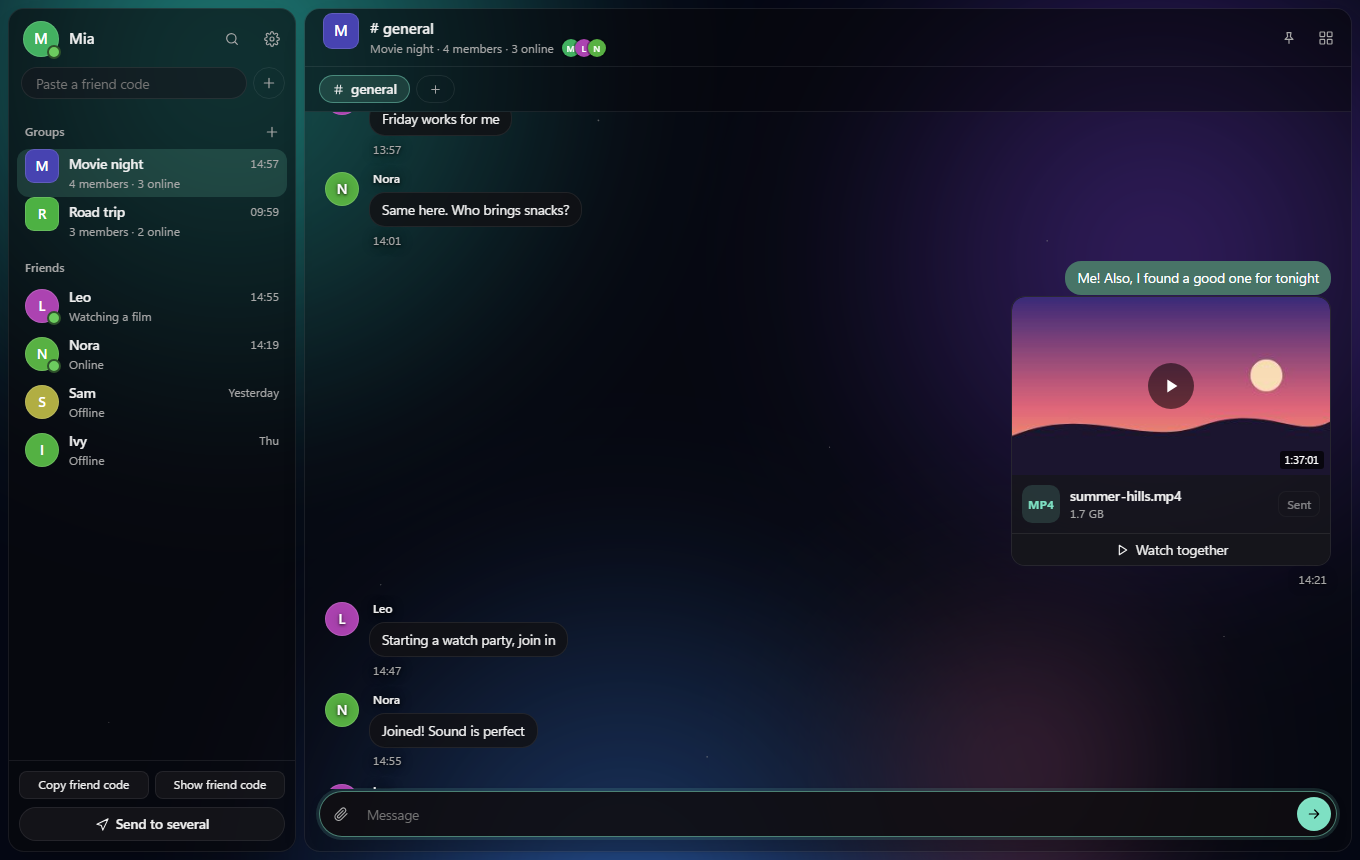
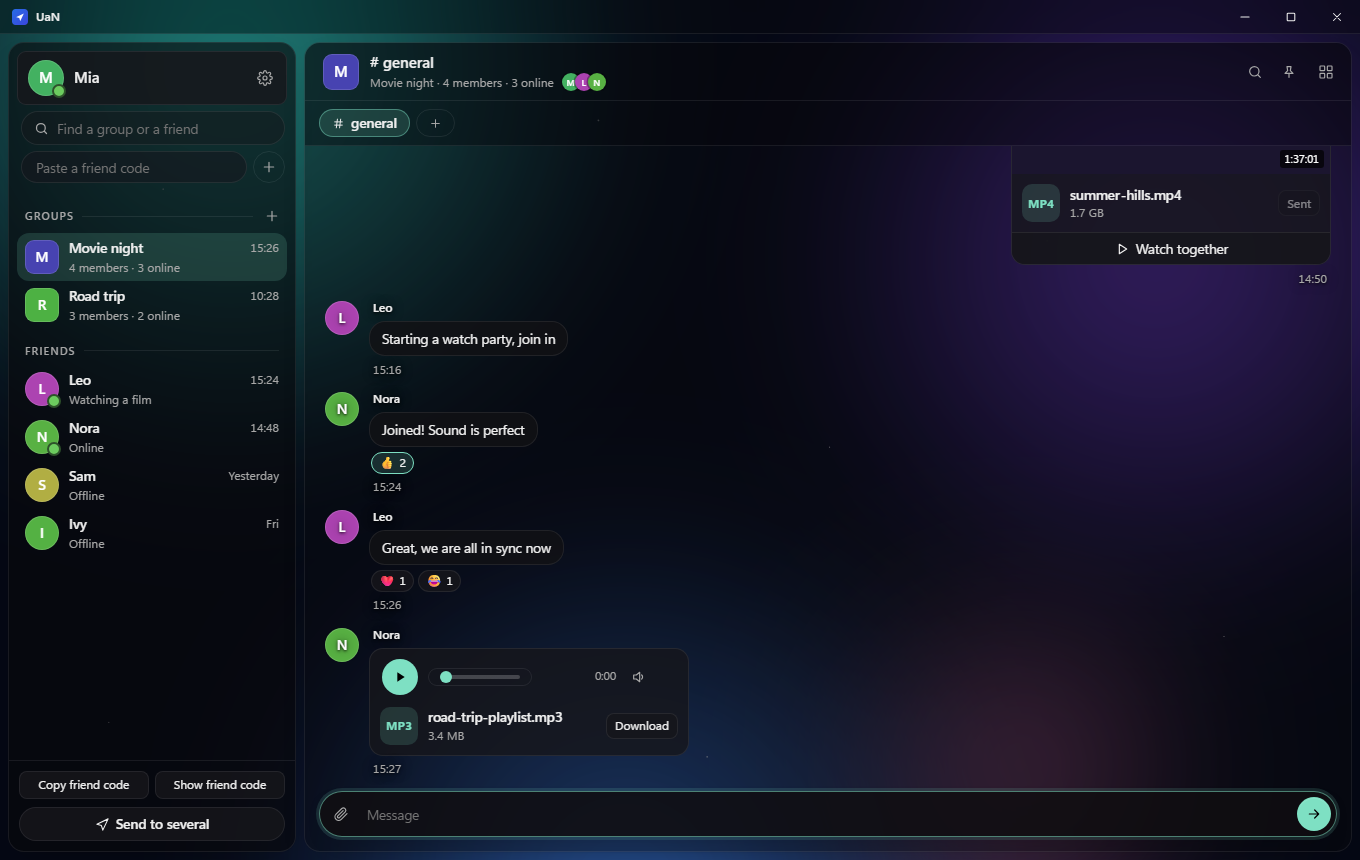
GitHub page: new screenshots from 1.9.21 (demo people), a Profiles section

diff --git a/README.md b/README.md
@@ -17,7 +17,7 @@ No server, no account: everything runs on your own PC.
 <br>
 
 <img src="docs/images/chat.png" width="880" alt="UaN: a group chat, in a custom space theme">
-<br><sub>Screenshot from UaN 1.9.9, with invented demo people</sub>
+<br><sub>Screenshot from UaN 1.9.21, with invented demo people</sub>
 
 </div>
 
@@ -74,7 +74,7 @@ updates itself.
 <td width="56%" valign="top">
 
 <img src="docs/images/themes.png" alt="UaN settings: appearance, with the theme settings open">
-<br><sub>Screenshot from UaN 1.9.9, with invented demo data</sub>
+<br><sub>Screenshot from UaN 1.9.21, with invented demo data</sub>
 
 </td>
 <td valign="top">
@@ -82,6 +82,28 @@ updates itself.
 Seventeen built-in themes, or put your **own** behind the chat: a video, a picture or a small web page.
 
 Double-click your theme to open its settings: **sound**, **volume**, **blur** and **brightness**, live, with a slider or a typed number.
+
+</td>
+</tr>
+</table>
+
+## Profiles
+
+<table>
+<tr>
+<td valign="top">
+
+Click anyone's picture or name to see their profile: status, **About**, since when you're friends and when they joined.
+
+Write your About with **bold**, *italic*, <u>underline</u> and ~~strike~~, and add **one picture or GIF**. UaN shrinks it by itself.
+
+Pick a **background** for your card: a ready-made one, any colour, or your own picture, right from your own profile.
+
+</td>
+<td width="56%" valign="top">
+
+<img src="docs/images/profile.png" alt="A profile card in UaN with a background, an About text and a picture">
+<br><sub>Screenshot from UaN 1.9.21, with invented demo people</sub>
 
 </td>
 </tr>

diff --git a/docs/images/README.md b/docs/images/README.md
@@ -3,10 +3,11 @@
 The pictures in this folder are used on the main page. They show the real interface with **invented demo people and messages**, never a
 personal one, and each is labelled with the UaN version it was taken from.
 
-They are refreshed only for major versions (2.0, 3.0 …), so a picture can be a little older than the newest release.
+They are refreshed for major versions, or when a release changes the look a lot, so a picture can be a little older than the newest release.
 
 | File | UaN version |
 | --- | --- |
-| `chat.png` | 1.9.9 |
-| `themes.png` | 1.9.9 |
+| `chat.png` | 1.9.21 |
+| `profile.png` | 1.9.21 |
+| `themes.png` | 1.9.21 |
 | `icon.png` | the app icon |
